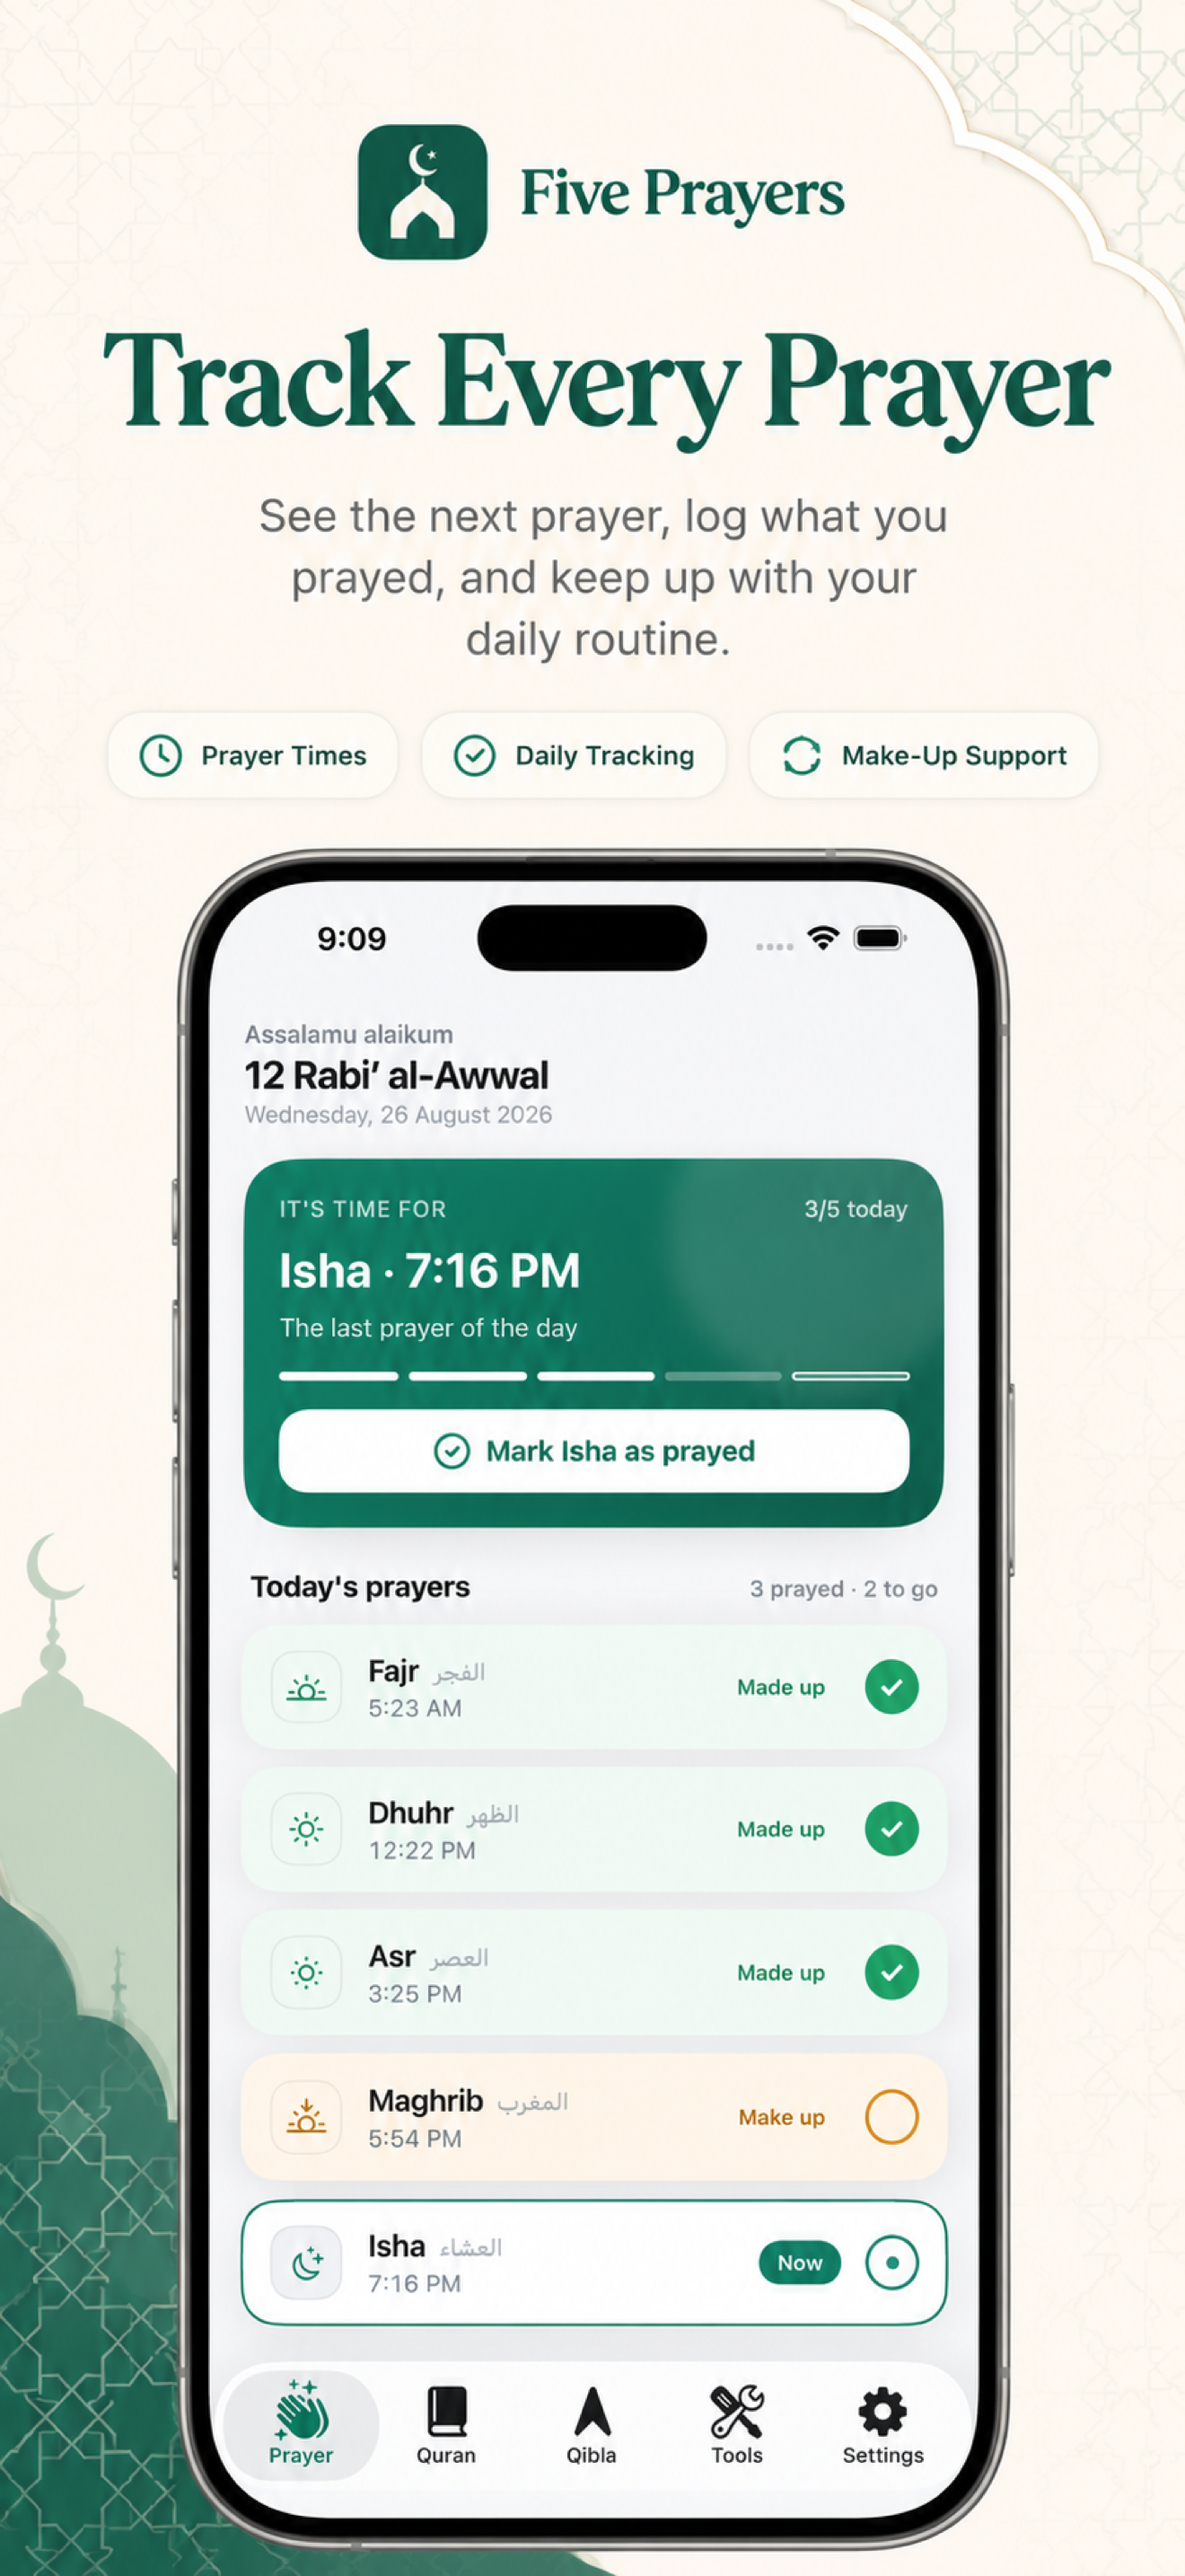
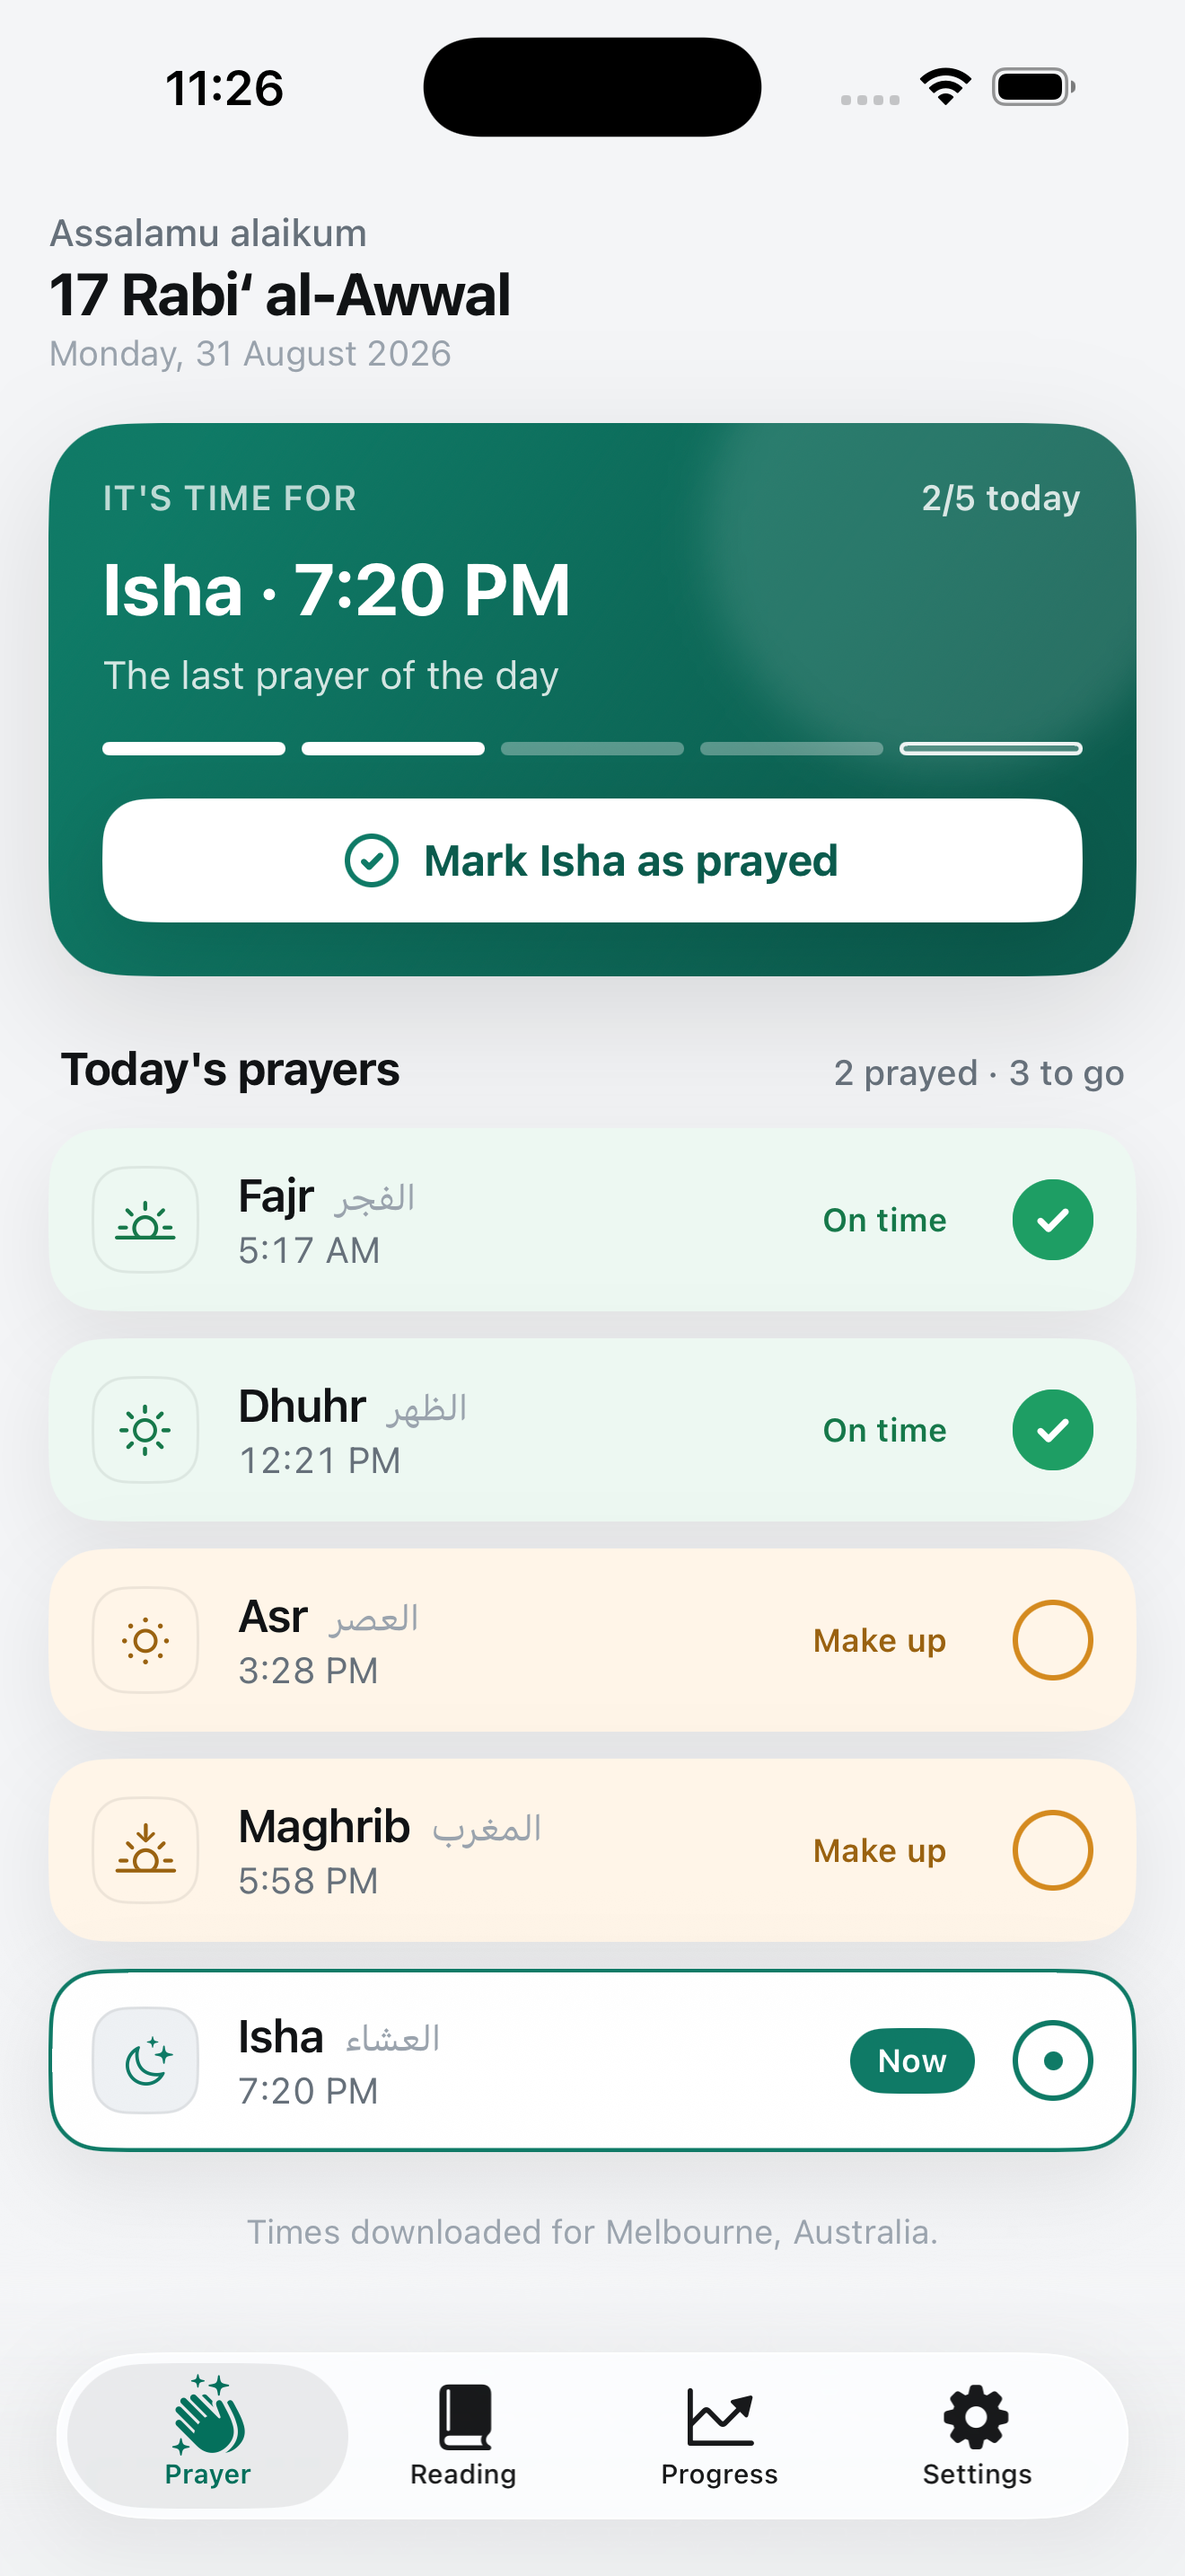
Refresh Five Prayers product screenshots

diff --git a/src/data/product-sites/fivePrayers.js b/src/data/product-sites/fivePrayers.js
@@ -31,7 +31,7 @@ export const fivePrayers = {
     headlineAccent: 'in one private place.',
     sub: 'Track the five daily prayers, build a guided Quran reading habit, and listen to the Quran without ads, accounts, or social pressure.',
     heroShot: '/five-prayers/screenshot-home.png',
-    heroShotAlt: "Five Prayers home screen showing today's prayers and the next prayer card",
+    heroShotAlt: "Five Prayers Prayer tab showing today's prayer schedule and the current Isha action",
     badges: ['Guided Quran reading', 'Private local progress', 'No ads or data selling'],
   },
 
@@ -45,9 +45,9 @@ export const fivePrayers = {
   screenshots: [
     {
       src: '/five-prayers/screenshot-home.png',
-      alt: "Five Prayers home screen showing today's prayer checklist and Isha prayer card",
-      title: 'Home',
-      caption: "Track today's prayers and see what is next.",
+      alt: "Five Prayers Prayer tab showing today's prayer schedule and the current Isha action",
+      title: 'Prayer',
+      caption: "Track today's prayers and see the current prayer action.",
     },
     {
       src: '/five-prayers/screenshot-quran.png',
@@ -56,10 +56,22 @@ export const fivePrayers = {
       caption: 'Read, listen, favourite, and revisit all 114 surahs.',
     },
     {
-      src: '/five-prayers/screenshot-settings.png',
-      alt: 'Five Prayers settings showing city prayer times, reminders, Fajr alarm, and adhan controls',
-      title: 'Settings',
-      caption: 'Appearance, tracking, prayer time, and adhan controls.',
+      src: '/five-prayers/screenshot-reading-overview.png',
+      alt: 'Five Prayers Reading tab showing the reading overview and completed daily reading',
+      title: 'Reading overview',
+      caption: 'See daily progress and active reading goals.',
+    },
+    {
+      src: '/five-prayers/screenshot-reading-setup.png',
+      alt: 'Five Prayers new custom reading screen showing a reading label, daily goal, and private reminder',
+      title: 'Custom reading',
+      caption: 'Create a reading with a daily ayah goal and private reminder.',
+    },
+    {
+      src: '/five-prayers/screenshot-reading-progress.png',
+      alt: 'Five Prayers Reading tab showing an active Night Reading plan and its next set',
+      title: 'Reading progress',
+      caption: 'Continue an active plan from its next contiguous ayah set.',
     },
   ],
 
